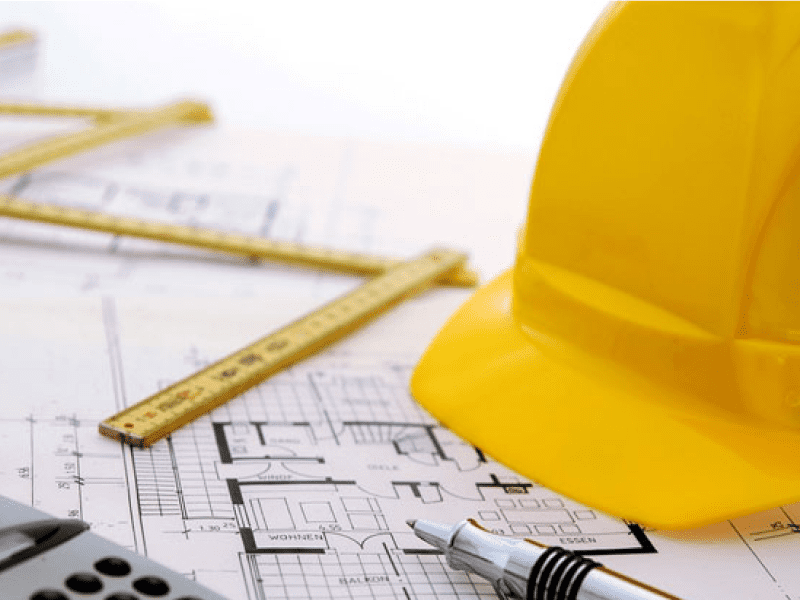
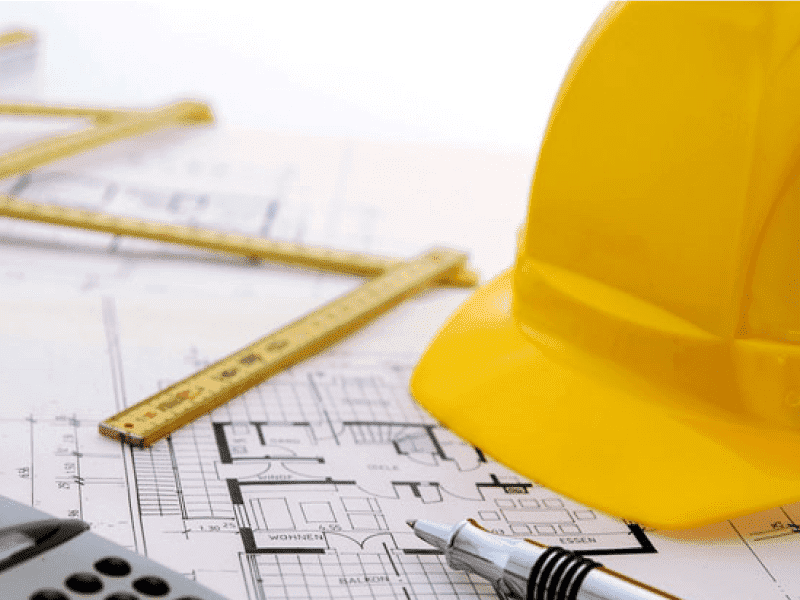
optimizando imagenes y agregando scroll

diff --git a/src/components/HomeContainer.jsx b/src/components/HomeContainer.jsx
@@ -4,6 +4,7 @@ import arrayCarrusel from '../data/Carrusel.json'
 import ListCardService from "./ComponentsHomeContainer/ListCardService";
 import BodyViews from "./BodyViews";
 import CardsCategory from "./CardsCategory/CardsCategory";
+import ScrollToTop from "./ScrollToTop";
 
 const HomeContainer = () => {
   return (
@@ -13,6 +14,7 @@ const HomeContainer = () => {
         <ListCardService />
         <CardsCategory />
       </BodyViews>
+      <ScrollToTop />
     </div>
   );
 };

diff --git a/src/components/AboutUs.jsx b/src/components/AboutUs.jsx
@@ -3,6 +3,7 @@ import CarruselHome from "./CarouselComponents/Carrusel";
 import CardsCategory from "./CardsCategory/CardsCategory";
 import BodyViews from "./BodyViews";
 import arrayCarrusel from '../data/Carrusel.json'
+import ScrollToTop from "./ScrollToTop";
 
 const AboutUs = () => {
   return (
@@ -20,6 +21,7 @@ const AboutUs = () => {
         <CarruselHome array={arrayCarrusel}/>
         <CardsCategory />
       </BodyViews>
+      <ScrollToTop />
     </div>
   );
 };

diff --git a/src/components/ServiceContainer.jsx b/src/components/ServiceContainer.jsx
@@ -2,6 +2,7 @@ import React from "react";
 import ListCardService from "./ComponentsHomeContainer/ListCardService";
 import CardsCategory from "./CardsCategory/CardsCategory";
 import BodyViews from "./BodyViews";
+import ScrollToTop from "./ScrollToTop";
 
 const ServiceContainer = () => {
   return (
@@ -10,6 +11,7 @@ const ServiceContainer = () => {
         <ListCardService />
         <CardsCategory />
       </BodyViews>
+      <ScrollToTop />
     </div>
   );
 };

diff --git a/src/components/WorkContainer.jsx b/src/components/WorkContainer.jsx
@@ -3,6 +3,7 @@ import ImgContainer from "./ImgWork/ImgContainer";
 import CardsCategory from "./CardsCategory/CardsCategory";
 import BodyViews from "./BodyViews";
 import arrayCarousel from "../data/Work.json";
+import ScrollToTop from "./ScrollToTop";
 
 const WorkContainer = () => {
 
@@ -18,6 +19,7 @@ const WorkContainer = () => {
       </div>
       <CardsCategory/>
       </BodyViews>
+      <ScrollToTop />
     </div>
   );
 };

diff --git a/src/components/Contact.jsx b/src/components/Contact.jsx
@@ -1,6 +1,7 @@
 import React from "react";
 import CardsCategory from "./CardsCategory/CardsCategory";
 import BodyViews from "./BodyViews";
+import ScrollToTop from "./ScrollToTop";
 
 const Contact = () => {
   return (
@@ -30,6 +31,7 @@ const Contact = () => {
         </div>
         <CardsCategory />
       </BodyViews>
+      <ScrollToTop />
     </div>
   );
 };

diff --git a/src/components/ScrollToTop.jsx b/src/components/ScrollToTop.jsx
@@ -1,0 +1,11 @@
+import { useEffect } from 'react';
+
+const ScrollToTop = () => {
+  useEffect(() => {
+    window.scrollTo(0, 0); // Hace scroll a la posición (0, 0) (parte superior de la página)
+  }, []);
+
+  return null;
+};
+
+export default ScrollToTop;
